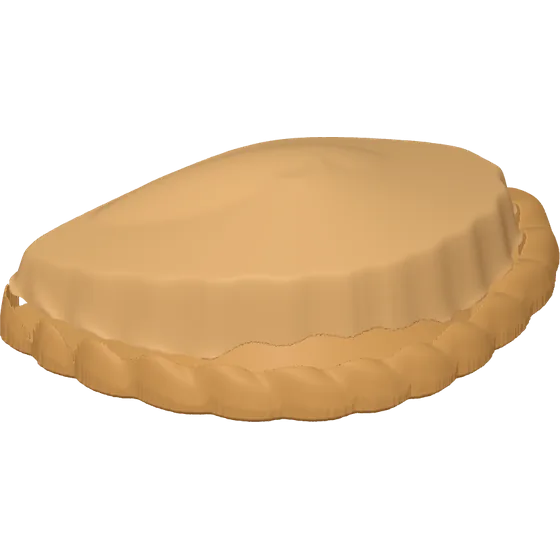
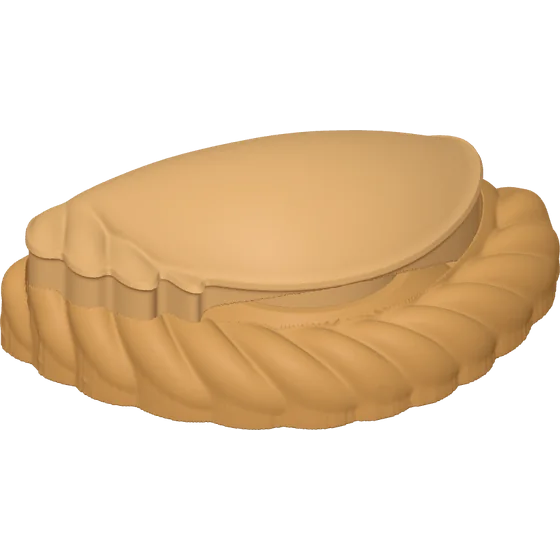
Empanada Pop v3.0: piel original del STL, tapa levantada, superficie lisa
Claude-Session: https://claude.ai/code/session_01CakWamoGNygWeoKn5u5X5H

diff --git a/clickly/index.html b/clickly/index.html
@@ -383,7 +383,7 @@ const POPS=[
  {id:'base',n:'Clickly Box',line:'base',c:'#2F6FE0',ct:'Click en la cúpula',d:'Una cajita cuya tapa es el clicker. El modelo base, el que siempre está.'},
  {id:'medialuna',n:'Medialuna Pop',line:'ar',c:'#5E9FDC',ct:'Click en el rollito del medio',d:'Una medialuna gordita, con sus rollitos y sus cuernos.',m:'40,2 × 30,8 × 28,2 mm'},
  {id:'alfajor',n:'Alfajor Pop',line:'ar',c:'#7B4B2A',ct:'Click en la galleta de arriba',d:'Dos galletas con dulce de leche, todo marrón.',local:1,m:'44,2 × 44,2 × 26,4 mm'},
- {id:'empanada',n:'Empanada Pop',line:'ar',c:'#C98A3C',ct:'Click en la cúpula',d:'Una empanada con su repulgue. Apretás la cúpula y hace clic.',local:1,m:'80,0 × 44,3 × 27,0 mm'},
+ {id:'empanada',n:'Empanada Pop',line:'ar',c:'#C98A3C',ct:'Click en la cúpula',d:'Una empanada con su repulgue. Apretás la cúpula y hace clic.',local:1,m:'80,1 × 44,4 × 28,9 mm'},
  {id:'pancake',n:'Pancake Pop',line:'bf',c:'#E8A33D',ct:'Click en el panqueque de arriba',d:'Una pila de panqueques con almíbar y una pastillita de manteca arriba.'},
  {id:'macaron',n:'Pink Macaron Pop',line:'sweet',c:'#EF97B1',ct:'Click en la tapita de arriba',d:'Un macaron con tapitas rosa pastel y relleno blanco.',m:'Ø42,4 × 29 mm'},
  {id:'candy',n:'Candy Pop',line:'sweet',c:'#CDBFF0',ct:'Click en el medio',d:'Un caramelo con su envoltorio y las puntas torcidas.',local:1,m:'70,6 × 30,8 × 26,7 mm'},
